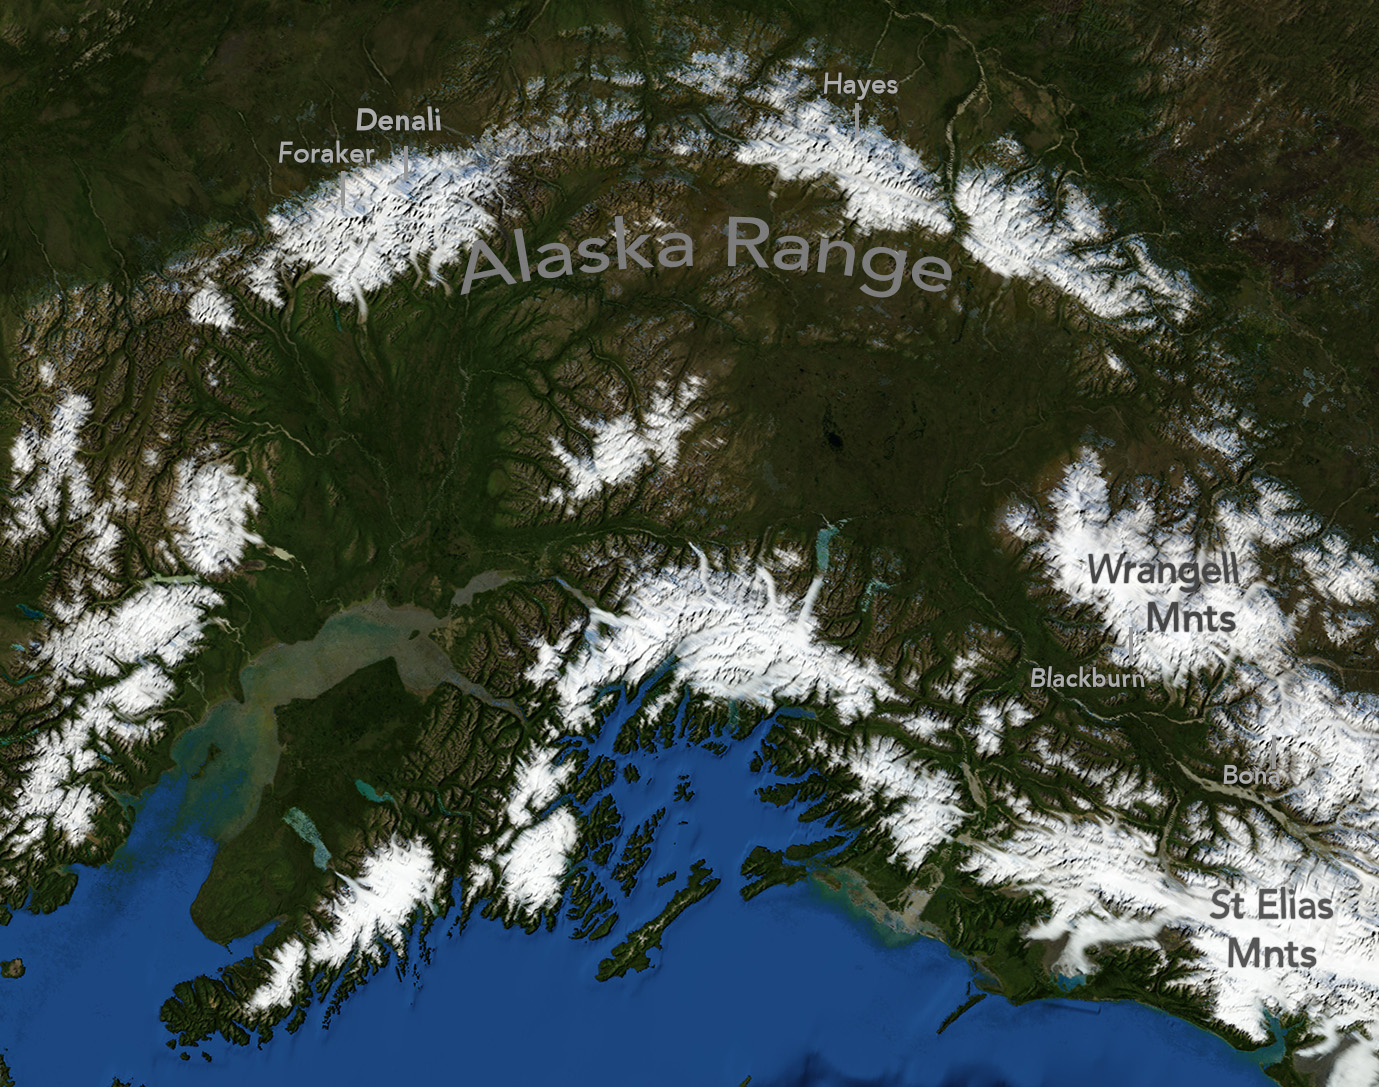
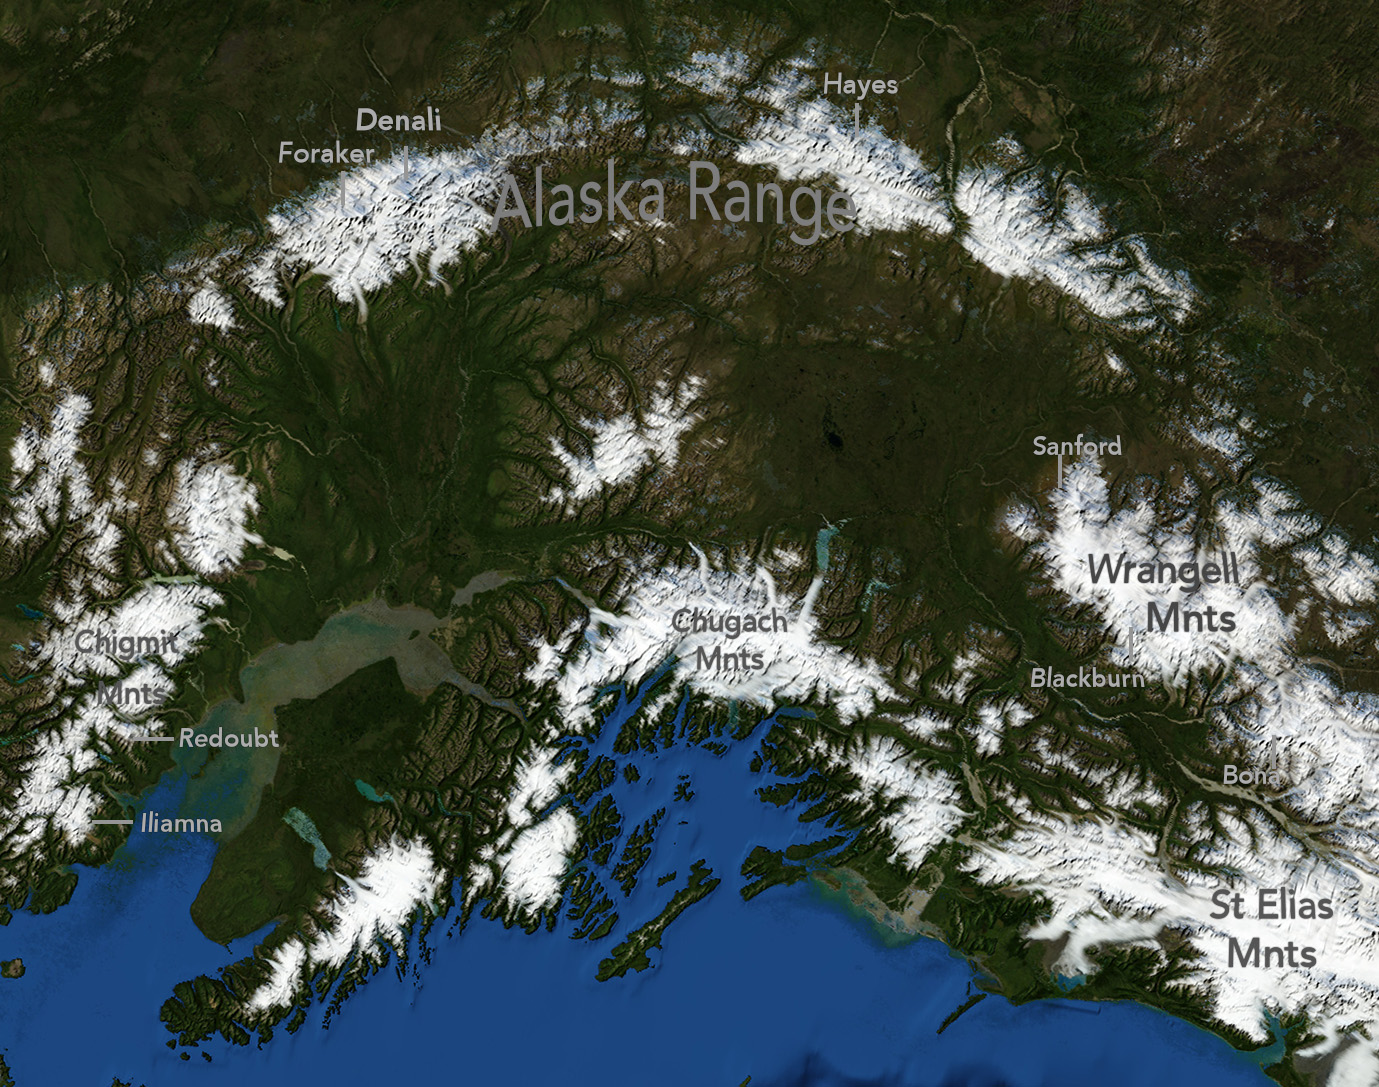
Updated map

diff --git a/page4.html b/page4.html
@@ -49,7 +49,7 @@
 
         <div class="gallery-item">
             <a href="maps/2.jpg">
-                <h2> Alaska Range Map</h2>
+                <h2> Southcentral Alaska Map</h2>
             </a>
         </div>
 
